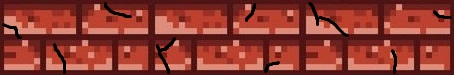
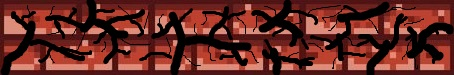
bcp de chose

diff --git a/SAE_TANK/MainWindow.xaml.cs b/SAE_TANK/MainWindow.xaml.cs
@@ -26,23 +26,29 @@ namespace SAE_TANK
     /// </summary>
     public partial class MainWindow : Window
     {
-        
+        private const int DELAI_ENTRE_TIR = 10;
         private DispatcherTimer dispatcherTimer = new DispatcherTimer();
         private bool goLeft_J1, goRight_J1, goUp_J1, goDown_J1 = false;
         private bool goLeft_J2, goRight_J2, goUp_J2, goDown_J2 = false;
 
         private int Rect_Tank_J1_Speed = 5;
         private int bulletTank1Speed = 15;
+        private int delaiTirJ1 = 0;
+
         private int Rect_Tank_J2_Speed = 5;
         private int bulletTank2Speed = 15;
+        private int delaiTirJ2 = 0;
 
         private int vie_J1 = 3;
         private int vie_J2 = 3;
+        private int[] vie_mur = new int[40];
+        private int duree_anim_touche = 0;
 
         private string direction_J1 = "S";
         private string direction_J2 = "N";
         public int numero_J1 = 1;
         public int numero_J2 = 1;
+
 
         Rectangle[] mur = new Rectangle[20];
         Rectangle[] murH = new Rectangle[20];
@@ -52,8 +58,14 @@ namespace SAE_TANK
 
         private List<Rectangle> itemsToRemove = new List<Rectangle>();
 
-        ImageBrush murVertival = new ImageBrush();
-        ImageBrush murHorizontal = new ImageBrush();
+        ImageBrush murVertical4 = new ImageBrush();
+        ImageBrush murVertical3 = new ImageBrush();
+        ImageBrush murVertical2 = new ImageBrush();
+        ImageBrush murVertical1 = new ImageBrush();
+        ImageBrush murHorizontal4 = new ImageBrush();
+        ImageBrush murHorizontal3 = new ImageBrush();
+        ImageBrush murHorizontal2 = new ImageBrush();
+        ImageBrush murHorizontal1 = new ImageBrush();
         ImageBrush tank1 = new ImageBrush();
         ImageBrush tank2 = new ImageBrush();
         ImageBrush sol = new ImageBrush();
@@ -79,8 +91,16 @@ namespace SAE_TANK
             tank1.ImageSource = new BitmapImage(new Uri(AppDomain.CurrentDomain.BaseDirectory + "image_Tanks/Tank_bleu_"+ numero_J1 + "_S.png"));
             tank2.ImageSource = new BitmapImage(new Uri(AppDomain.CurrentDomain.BaseDirectory + "image_Tanks/Tank_rouge_"+ numero_J2 + "_N.png"));
             sol.ImageSource = new BitmapImage(new Uri(AppDomain.CurrentDomain.BaseDirectory + "sol.png"));
-            murVertival.ImageSource=new BitmapImage(new Uri(AppDomain.CurrentDomain.BaseDirectory + "mur_vertical.jpg"));
-            murHorizontal.ImageSource=new BitmapImage(new Uri(AppDomain.CurrentDomain.BaseDirectory + "mur_hor.jpg"));
+
+            murVertical4.ImageSource=new BitmapImage(new Uri(AppDomain.CurrentDomain.BaseDirectory + "mur_vertical4.jpg"));
+            murVertical3.ImageSource=new BitmapImage(new Uri(AppDomain.CurrentDomain.BaseDirectory + "mur_vertical3.jpg"));
+            murVertical2.ImageSource=new BitmapImage(new Uri(AppDomain.CurrentDomain.BaseDirectory + "mur_vertical2.jpg"));
+            murVertical1.ImageSource=new BitmapImage(new Uri(AppDomain.CurrentDomain.BaseDirectory + "mur_vertical1.jpg"));
+            murHorizontal4.ImageSource=new BitmapImage(new Uri(AppDomain.CurrentDomain.BaseDirectory + "mur_hor4.jpg"));
+            murHorizontal3.ImageSource=new BitmapImage(new Uri(AppDomain.CurrentDomain.BaseDirectory + "mur_hor3.jpg"));
+            murHorizontal2.ImageSource=new BitmapImage(new Uri(AppDomain.CurrentDomain.BaseDirectory + "mur_hor2.jpg"));
+            murHorizontal1.ImageSource=new BitmapImage(new Uri(AppDomain.CurrentDomain.BaseDirectory + "mur_hor1.jpg"));
+
             sprite_vie_J1.ImageSource = new BitmapImage(new Uri(AppDomain.CurrentDomain.BaseDirectory + "3_coeur.png"));
             sprite_vie_J2.ImageSource = new BitmapImage(new Uri(AppDomain.CurrentDomain.BaseDirectory + "3_coeur.png"));
 
@@ -104,6 +124,8 @@ namespace SAE_TANK
         }
         private void GameEngine(object sender, EventArgs e)
         {
+            delaiTirJ1++;
+            delaiTirJ2++;
             MovePlayer();
             {
                 foreach (Rectangle x in Le_Canvas.Children.OfType<Rectangle>())
@@ -185,19 +207,22 @@ namespace SAE_TANK
             }
             if(e.Key == Key.Space)
             {
-                itemsToRemove.Clear();
-                Rectangle newBullet = new Rectangle
+                if(delaiTirJ1>DELAI_ENTRE_TIR)
                 {
-                    Tag = "bulletTank1",
-                    Height = 10,
-                    Width = 10,
-                    Fill = Brushes.White,
-                    Stroke = Brushes.Red
+                    delaiTirJ1 = 0;                    
+                    Rectangle newBullet = new Rectangle
+                    {
+                        Tag = "bulletTank1",
+                        Height = 10,
+                        Width = 10,
+                        Fill = Brushes.White,
+                        Stroke = Brushes.Red
                     
-                };
-                Canvas.SetTop(newBullet, Canvas.GetTop(Rect_Tank_J1) - newBullet.Height + Rect_Tank_J1.Height / 2);
-                Canvas.SetLeft(newBullet, Canvas.GetLeft(Rect_Tank_J1) + Rect_Tank_J1.Width / 2);
-                Le_Canvas.Children.Add(newBullet);
+                    };
+                    Canvas.SetTop(newBullet, Canvas.GetTop(Rect_Tank_J1) - newBullet.Height + Rect_Tank_J1.Height / 2);
+                    Canvas.SetLeft(newBullet, Canvas.GetLeft(Rect_Tank_J1) + Rect_Tank_J1.Width / 2);
+                    Le_Canvas.Children.Add(newBullet);
+                }
             }
             //test controle J2
             if (e.Key == Key.Left)
@@ -222,19 +247,21 @@ namespace SAE_TANK
             }
             if (e.Key == Key.NumPad0)
             {
-                itemsToRemove.Clear();
-                Rectangle newBullet = new Rectangle
+                if(delaiTirJ2>DELAI_ENTRE_TIR)
                 {
-                    Tag = "bulletTank2"
-                ,
-                    Height = 10,
-                    Width = 10,
-                    Fill = Brushes.White,
-                    Stroke = Brushes.Red
-                };
-                Canvas.SetTop(newBullet, Canvas.GetTop(Rect_Tank_J2) - newBullet.Height + Rect_Tank_J2.Width/ 2);
-                Canvas.SetLeft(newBullet, Canvas.GetLeft(Rect_Tank_J2) + Rect_Tank_J2.Width / 2);
-                Le_Canvas.Children.Add(newBullet);
+                    delaiTirJ2 = 0;
+                    Rectangle newBullet = new Rectangle
+                    {
+                        Tag = "bulletTank2",
+                        Height = 10,
+                        Width = 10,
+                        Fill = Brushes.White,
+                        Stroke = Brushes.Red
+                    };
+                    Canvas.SetTop(newBullet, Canvas.GetTop(Rect_Tank_J2) - newBullet.Height + Rect_Tank_J2.Width/ 2);
+                    Canvas.SetLeft(newBullet, Canvas.GetLeft(Rect_Tank_J2) + Rect_Tank_J2.Width / 2);
+                    Le_Canvas.Children.Add(newBullet);
+                }
             }
         }
         
@@ -482,14 +509,52 @@ namespace SAE_TANK
             {
                 if (murCollision[i].IntersectsWith(balle))
                 {
-                    murCollision[i]= Rect.Empty;
+                    
                     if (i < 20)
                     {
-                        mur[i].Margin = new Thickness(-100, -100, 0, 0);
+                        vie_mur[i]--;
+                        switch (vie_mur[i])
+                        {
+                            case 3:
+                                mur[i].Fill = murVertical3;
+                                break;
+                            case 2:
+                                mur[i].Fill = murVertical2;
+                                break;
+                            case 1:
+                                mur[i].Fill = murVertical1;
+                                break;
+                            case 0:
+                                mur[i].Margin = new Thickness(-100, -100, 0, 0);
+                                murCollision[i] = Rect.Empty;
+                                break;
+
+                        }
+                      
+                        
                     }
                     else
                     {
-                        murH[i-20].Margin = new Thickness(-100, -100, 0, 0);
+                        vie_mur[i]--;
+                        switch (vie_mur[i])
+                        {
+                            case 3:
+                                murH[i - mur.Length].Fill = murHorizontal3;
+                                break;
+                            case 2:
+                                murH[i - mur.Length].Fill = murHorizontal2;
+                                break;
+                            case 1:
+                                murH[i - mur.Length].Fill = murHorizontal1;
+                                break;
+                            case 0:
+                                murH[i - mur.Length].Margin = new Thickness(-100, -100, 0, 0);
+                                murCollision[i] = Rect.Empty;
+                                break;
+
+                        }
+                        
+                        
                     }
                     return true;   
                 }
@@ -570,7 +635,9 @@ namespace SAE_TANK
                 mur[i].VerticalAlignment = VerticalAlignment.Top;
                 mur[i].HorizontalAlignment = HorizontalAlignment.Left;
                 mur[i].Margin = new Thickness(x, y, 0, 0);
-                mur[i].Fill = murVertival;
+                mur[i].Fill = murVertical4;
+
+                vie_mur[i] = 4;
                 if (random.Next(3) != 0)
                 {
                 this.Le_Canvas.Children.Add(mur[i]);
@@ -598,7 +665,9 @@ namespace SAE_TANK
                 murH[i].VerticalAlignment = VerticalAlignment.Top;
                 murH[i].HorizontalAlignment = HorizontalAlignment.Left;
                 murH[i].Margin = new Thickness(x, y, 0, 0);
-                murH[i].Fill = murHorizontal;
+                murH[i].Fill = murHorizontal4;
+
+                vie_mur[i+mur.Length] = 4;
                 if (random.Next(3) != 0) 
                 {
                     
